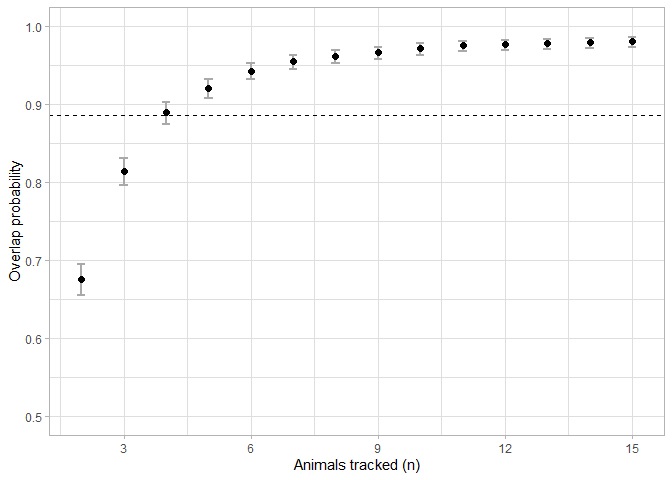
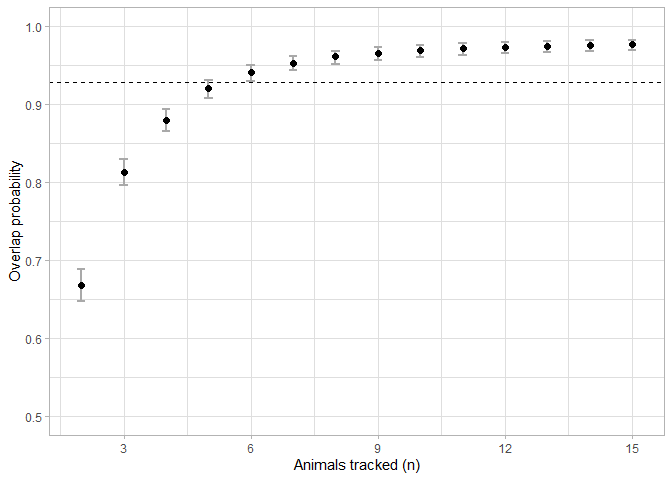
Ver 2.3.0.9002

diff --git a/README.md b/README.md
@@ -195,7 +195,7 @@ The sample size linked to this value was deemed to be the minimum sample
 size required to represent the general distribution of the group.
 
 ``` r
-a <- asymptote(overlap, upper.degree = 10, estimator = 'glm', family = binomial)
+a <- asymptote(overlap, upper.degree = 5, estimator = 'glm', family = binomial)
 ```
 
 #### 2-4. Plot the estimated overlap probabilities relative to the sample sizes (black points), the 95% confidence intervals (grey lines), and 95% of the estimated asymptote (dashed line).
@@ -248,4 +248,4 @@ Evol* 12(2):288-297 doi:
 
 ## Current version
 
-2.2.3.9001 (2022-09-07)
+2.2.3.9002 (2022-09-07)
